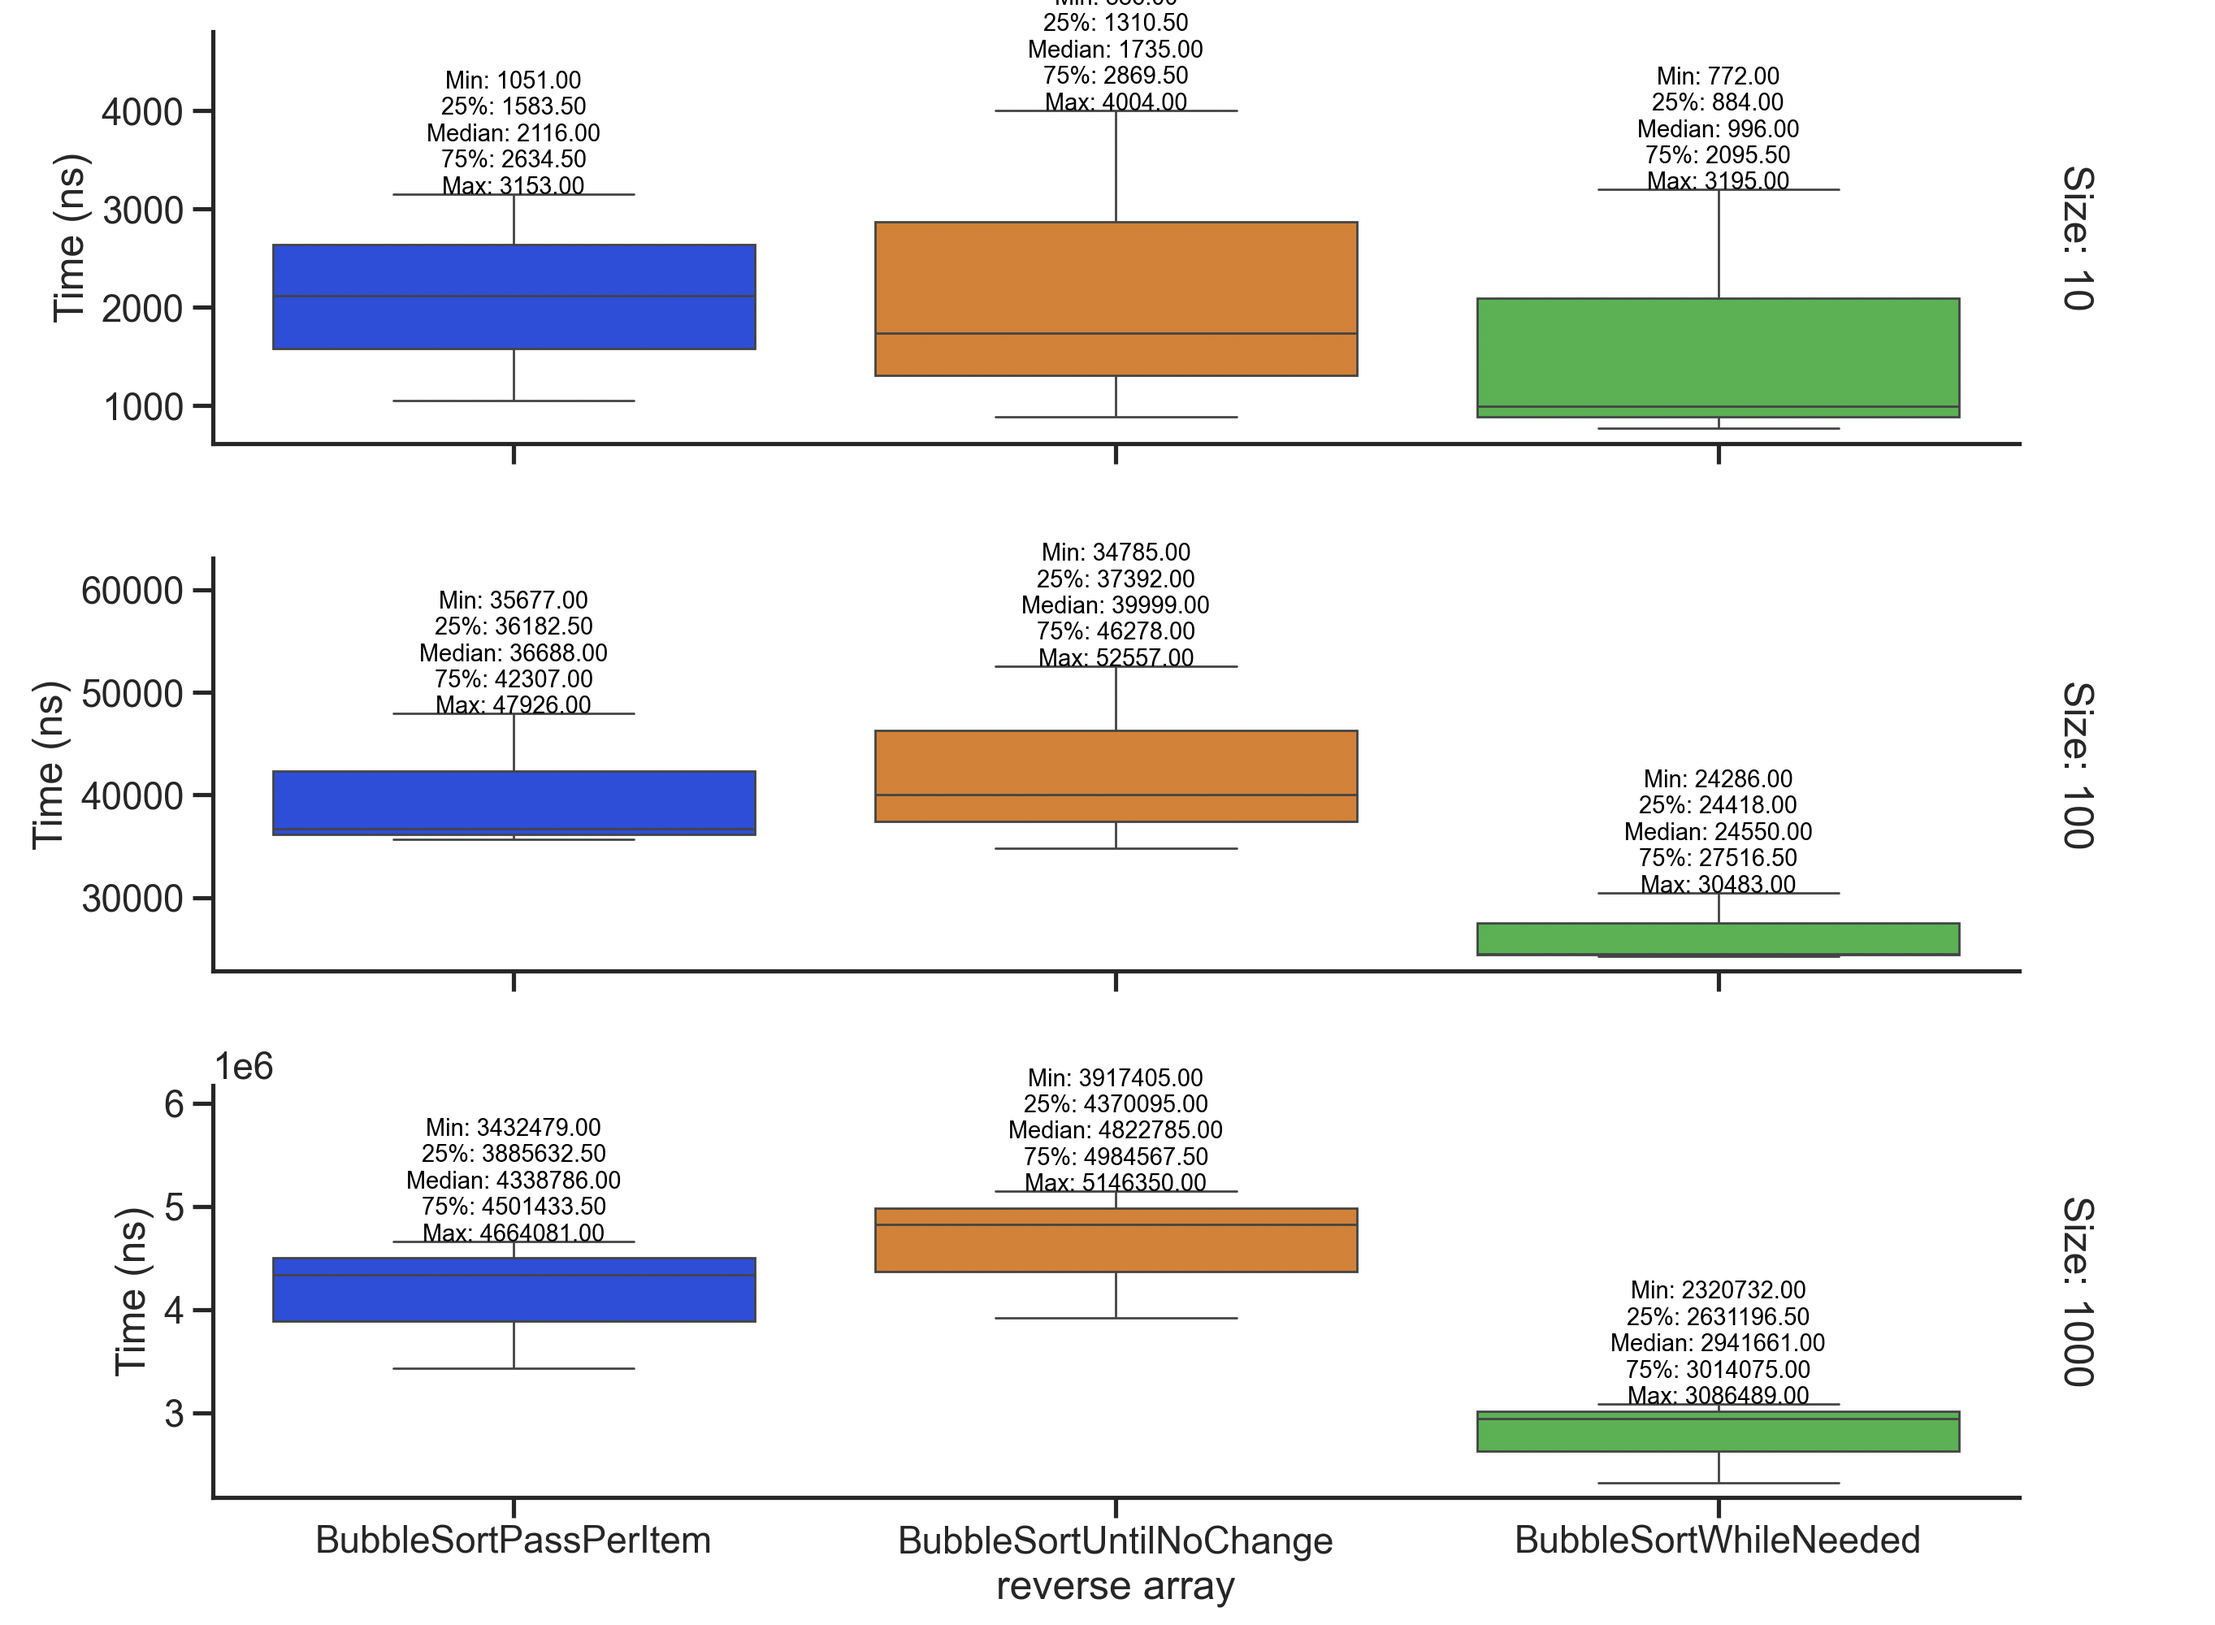
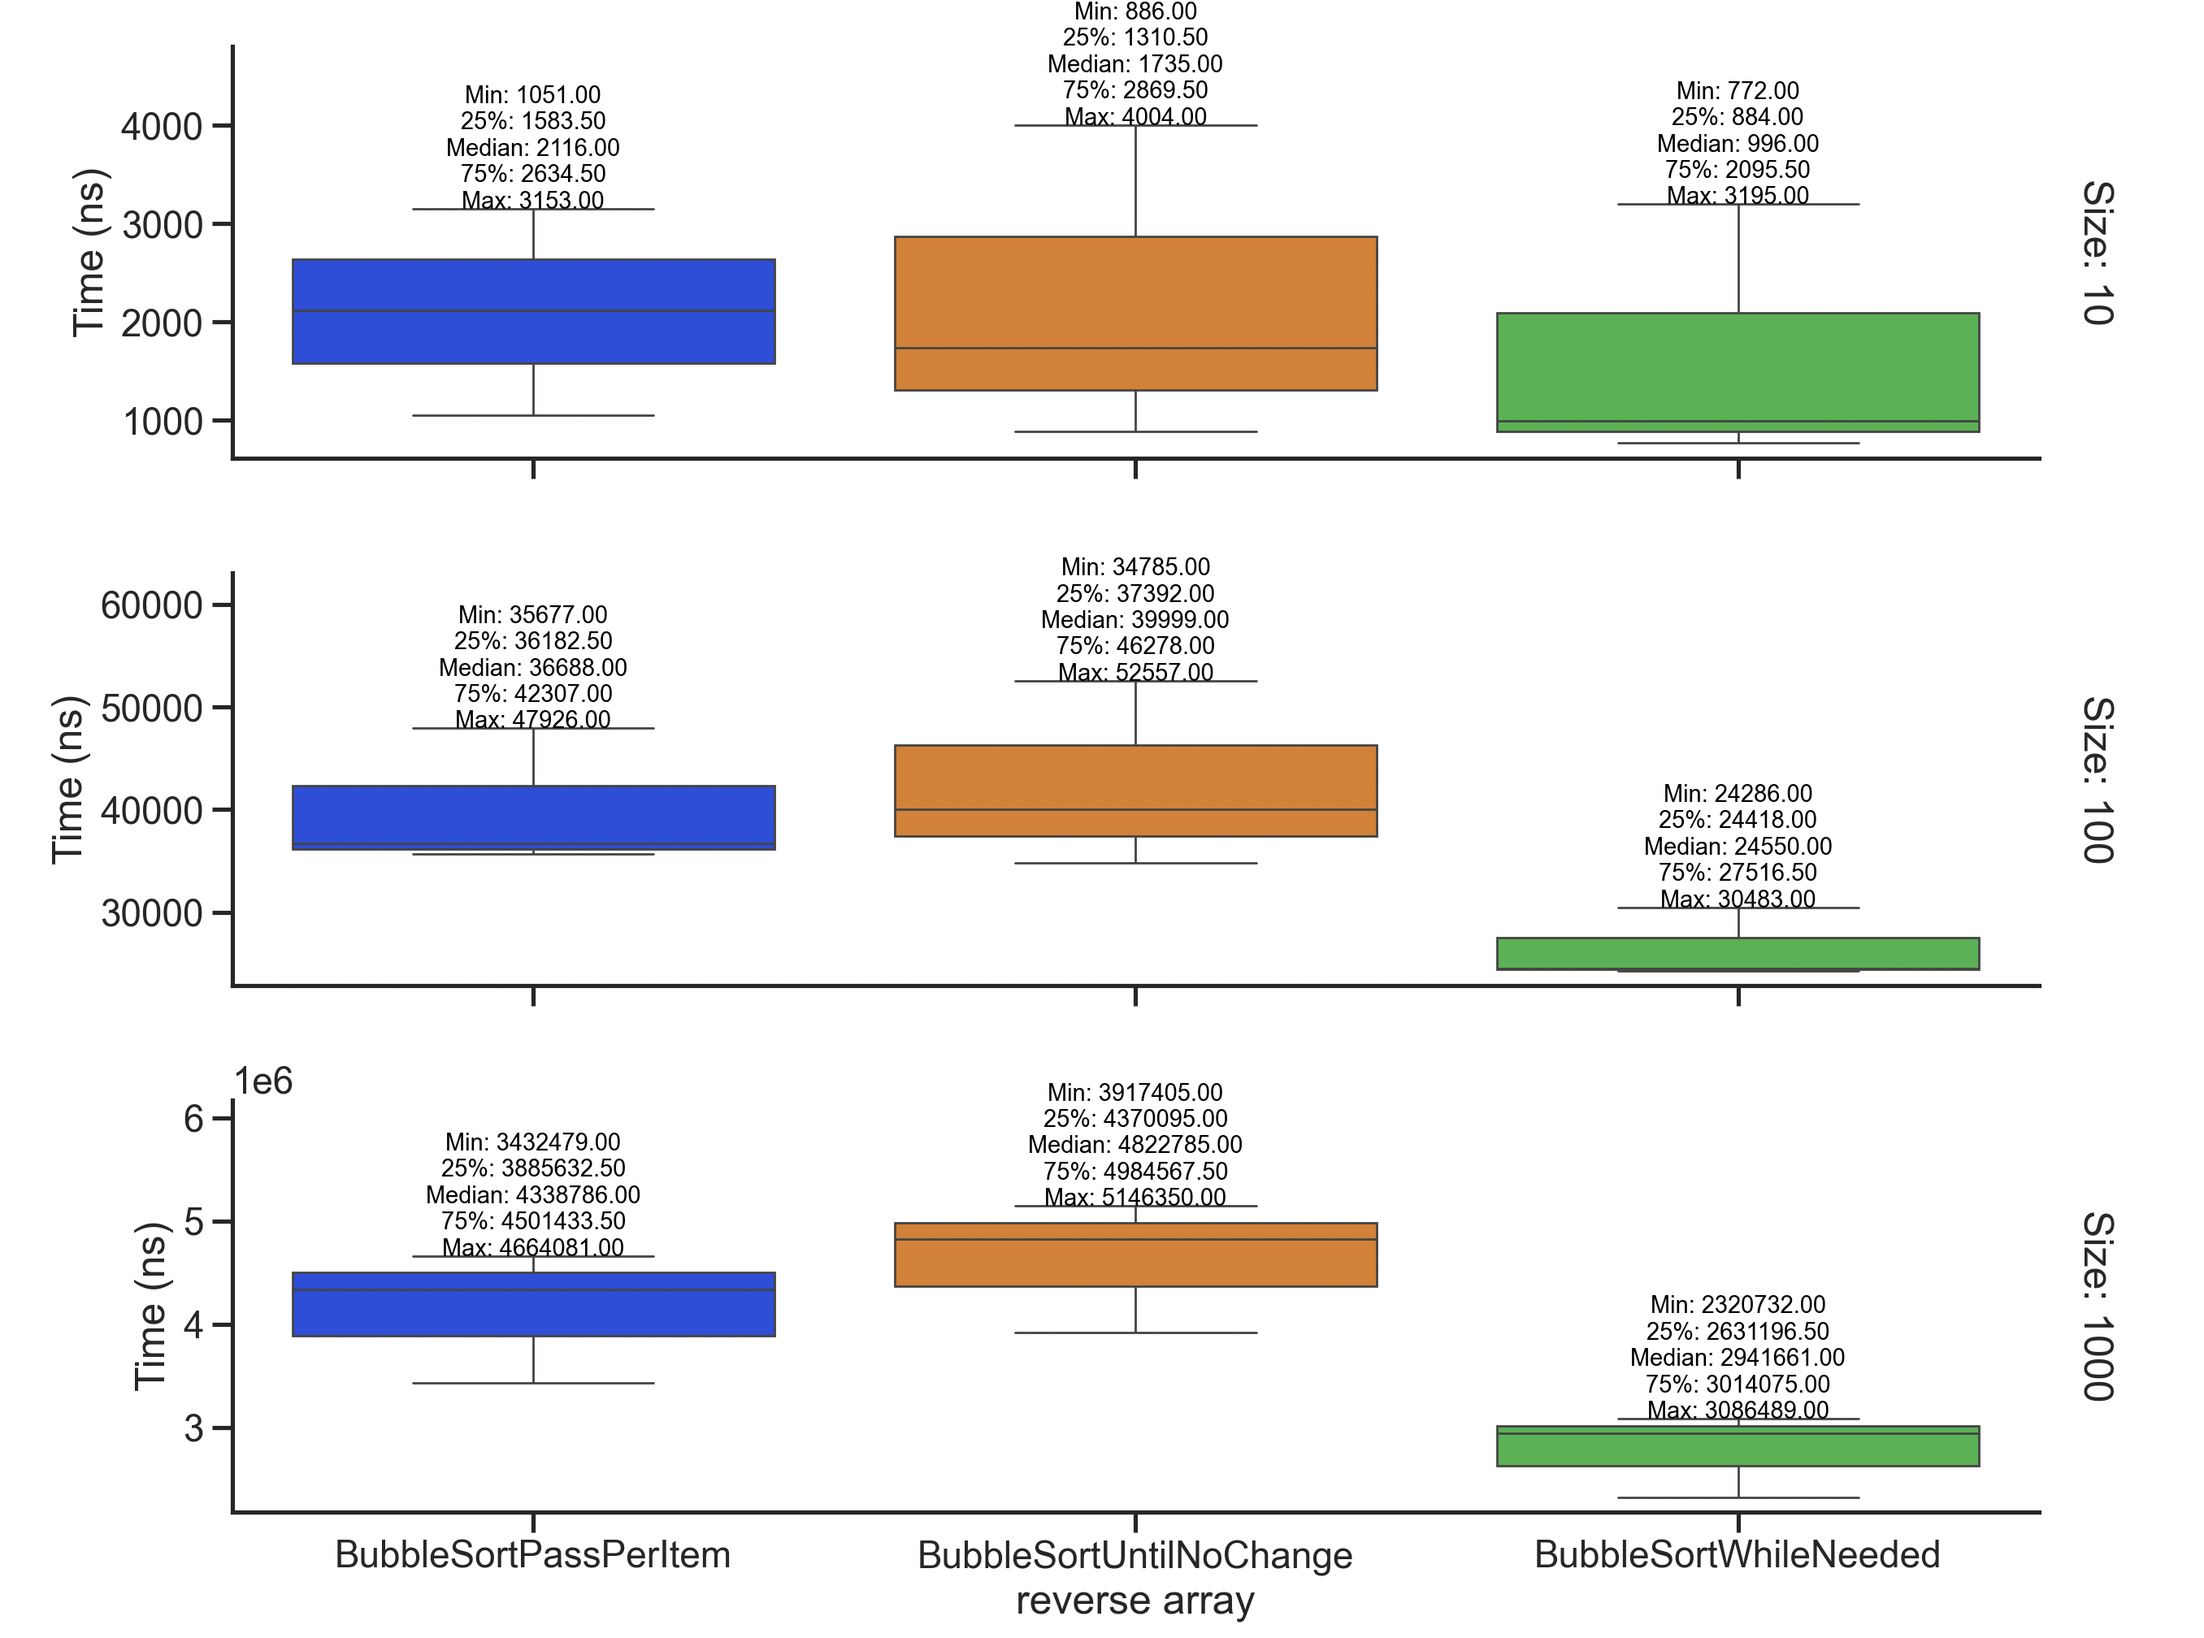
save

diff --git a/assignment1/plot.py b/assignment1/plot.py
@@ -42,7 +42,7 @@ def run():
     # Add a legend and adjust the layout
     g.add_legend()
     g.set_xticklabels(rotation=90)
-    plt.subplots_adjust(top=0.9)
+    plt.subplots_adjust(top=0.85)
     g.fig.suptitle('Sorting Algorithm Performance by Array Type and Initial State')
 
     # Display the plot
